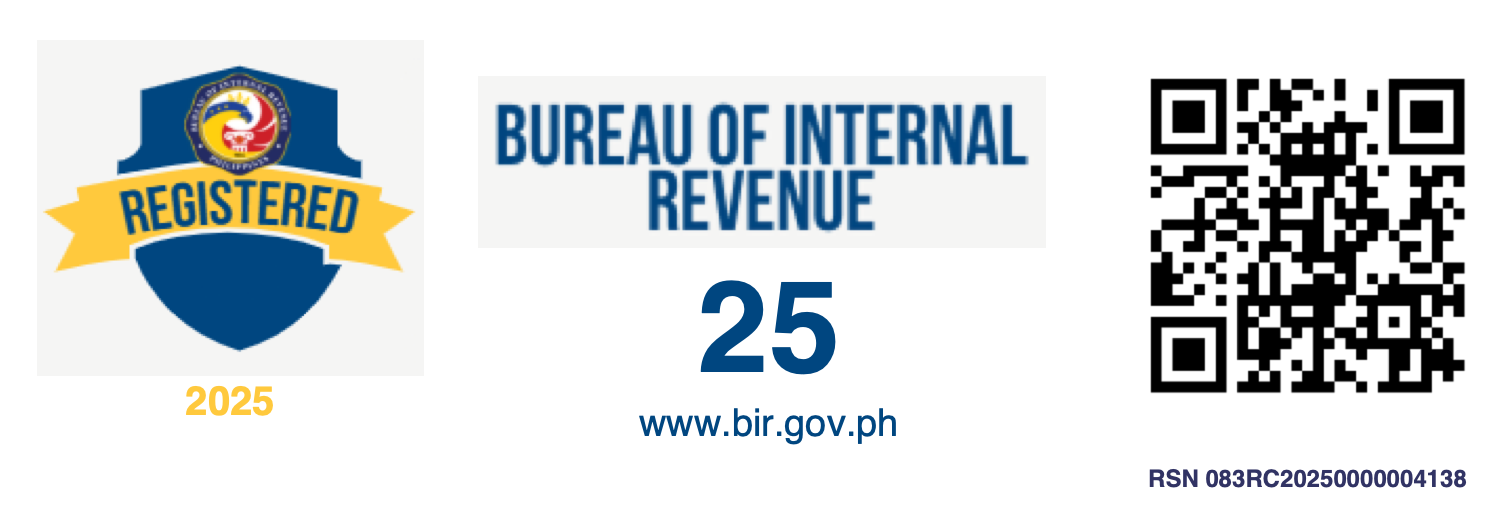
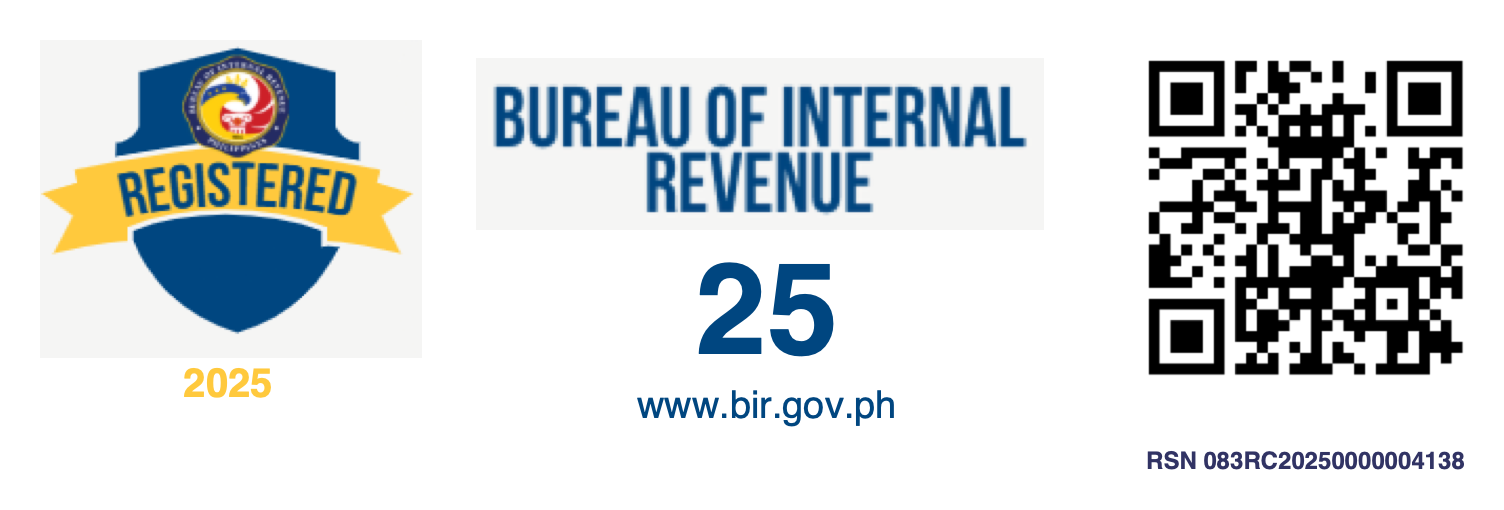
Balance the BIR badge in the contact section
Re-crop the badge from the certificate with even padding on every side and
show it at 400px so it no longer outweighs the contact copy. The caption
keeps its natural width, and the QR still decodes at every rendered size.

diff --git a/app/page.jsx b/app/page.jsx
@@ -157,7 +157,7 @@ export default function Home() {
                   src="/assets/bir/bir-registration-seal-badge.png"
                   alt="Official BIR Registration Seal Badge with verification QR code and RSN 083RC20250000004138, full size"
                   width={1504}
-                  height={512}
+                  height={510}
                   unoptimized
                 />
               </a>

diff --git a/app/globals.css b/app/globals.css
@@ -1288,12 +1288,12 @@ button {
 }
 /* Official artwork: scaled only, never recolored or distorted, so the QR stays scannable. */
 .registration-badge {
-  max-width: 560px;
   margin-top: 56px;
 }
 .registration-badge img {
   display: block;
   width: 100%;
+  max-width: 400px;
   height: auto;
   border-radius: 8px;
 }
